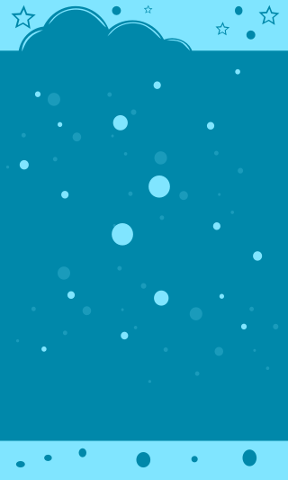
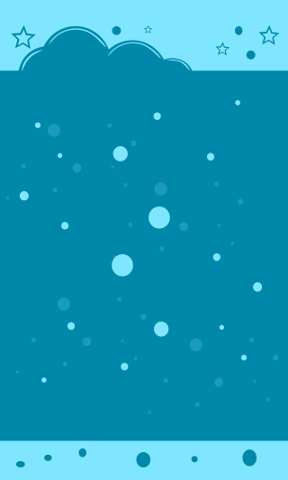
Add bubbles under items(#56)

diff --git a/core/src/mmorihiro/larger_circle/view/PuzzleView.kt b/core/src/mmorihiro/larger_circle/view/PuzzleView.kt
@@ -4,7 +4,6 @@ import com.badlogic.gdx.graphics.Color
 import com.badlogic.gdx.graphics.Texture
 import com.badlogic.gdx.scenes.scene2d.Group
 import com.badlogic.gdx.scenes.scene2d.ui.Image
-import ktx.actors.alpha
 import ktx.assets.asset
 import mmorihiro.larger_circle.model.Point
 
@@ -12,65 +11,49 @@ class PuzzleView(val onTouchDown: (PuzzleView, Int, Int) -> Unit,
                  val onTouchDragged: (PuzzleView, Int, Int) -> Unit,
                  val onTouchUp: (PuzzleView) -> Unit) : View() {
     val tileSize = 48f
-    val bottom = 40
+    val bottom = 53
     val rowSize = 6
     val colSize = 8
     val padding = 8
     val backGround = Image(asset<Texture>("background.png"))
-    val loader = ItemLoader(32, "items.png")
-    var items = (0..colSize - 1).map { index -> createRow(index) }
+    val itemLoader = ImageLoader(32, "items.png")
+    var bubbles = (0..colSize - 1).map { index -> createRow(index) }
+    var items = bubbles.map {
+        it.map {
+            itemLoader.loadRandom().apply {
+                x = it.x + padding
+                y = it.y + padding
+            }
+        }
+    }
     var itemLayer = Group()
     var connectEvent: ConnectEvent? = null
 
-    private fun createRow(yIndex: Int): List<Item> {
+    private fun createRow(yIndex: Int): List<MyImage> {
         val size = if (yIndex % 2 == 0) rowSize - 2 else rowSize - 1
         return (0..size).map { xIndex ->
-            loader.loadRandom().apply {
-                x = xIndex * tileSize + padding +
+            MyImage(Image(asset<Texture>("bubble.png")), 0 to 0).apply {
+                x = xIndex * tileSize +
                         if (yIndex % 2 == 0) tileSize / 2 else 0f
-                y = yIndex * tileSize + padding + bottom
+                y = yIndex * tileSize + bottom - 7 * yIndex
+                color = if (yIndex < 4) Color.GREEN else Color.GOLD
             }
         }
     }
 
     fun coordinateToPoint(x: Int, y: Int): Point {
-        val yPoint = (y - bottom) / tileSize.toInt()
+        val yPoint = ((y - bottom) / (tileSize - 7)).let {
+            if (it > 0) it.toInt() else -1
+        }
         val xPoint =
                 (if (yPoint % 2 == 0) x - tileSize.toInt() / 2 else x) /
                         tileSize.toInt()
         return xPoint to yPoint
     }
 
-    fun getItemFromPoint(point: Point) = items[point.second][point.first]
-
     fun resetBubbles() {
-        items.forEach {
-            it.forEach {
-                it.color = Color.WHITE
-                it.alpha = 1.0f
-            }
-        }
+        items.forEach { it.forEach { it.color = Color.WHITE } }
     }
-
-    /*fun nextRow(): List<Item> =
-            createRow(items.lastIndex).also { row ->
-                items = items.drop(1) + listOf(row)
-            }
-
-     fun removeBubble(bubble: Item) {
-         items = items.map { row -> row - bubble }
-     }
- 
-     fun createLabel(number: Int) =
-             Label(" x $number", Scene2DSkin.defaultSkin).apply {
-                 centerPosition(288f, 192f)
-                 x += 10f
-             }
- 
-     fun createBubble(type: Pair<Int, Int>) = loader.load(type).apply {
-         centerPosition(288f, 192f)
-         x -= 25f
-     }*/
 
     override fun touchUp(screenX: Int, screenY: Int,
                          pointer: Int, button: Int): Boolean {

diff --git a/core/src/mmorihiro/larger_circle/controller/TouchAction.kt b/core/src/mmorihiro/larger_circle/controller/TouchAction.kt
@@ -4,14 +4,13 @@ import com.badlogic.gdx.graphics.Color
 import mmorihiro.larger_circle.model.Point
 import mmorihiro.larger_circle.model.PuzzleModel
 import mmorihiro.larger_circle.view.ConnectEvent
-import mmorihiro.larger_circle.view.Item
+import mmorihiro.larger_circle.view.MyImage
 import mmorihiro.larger_circle.view.PuzzleView
 
 fun touchAction(view: PuzzleView, x: Int, y: Int) = view.run {
     val touchedPoint = coordinateToPoint(x, y)
-
     val touchedItem = try {
-        getItemFromPoint(touchedPoint)
+        items[touchedPoint.second][touchedPoint.first]
     } catch (e: IndexOutOfBoundsException) {
         return
     }
@@ -32,8 +31,8 @@ fun touchAction(view: PuzzleView, x: Int, y: Int) = view.run {
     touchEffect(touchedItem)
 }
 
-private fun touchEffect(item: Item) {
-    item.color = Color(0.5f, 0.5f, 0.5f, 0.7f)
+private fun touchEffect(image: MyImage) {
+    image.color = Color(0.5f, 0.5f, 0.5f, 0.7f)
 }
 
 fun onTouchUp(view: PuzzleView,
@@ -43,9 +42,9 @@ fun onTouchUp(view: PuzzleView,
         val size = connectedBubbles.size
         if (size == 1) view.resetBubbles()
         else {
-            connectedBubbles.forEach { view.getItemFromPoint(it).remove() }
-            onHit(view, view.getItemFromPoint(
-                    connectedBubbles.first()).type, size)
+            connectedBubbles.forEach { view.items[it.second][it.first].remove() }
+            val point = connectedBubbles.first()
+            onHit(view, view.items[point.second][point.first].type, size)
         }
     }
 }
@@ -53,16 +52,17 @@ fun onTouchUp(view: PuzzleView,
 fun onTouchDragged(view: PuzzleView, x: Int, y: Int): Unit = view.run {
     connectEvent?.let {
         val point = coordinateToPoint(x, y)
-        val item = try { 
-          getItemFromPoint(point)
-        } catch (e : java.lang.IndexOutOfBoundsException) { 
+        val item = try {
+            items[point.second][point.first]
+        } catch (e: IndexOutOfBoundsException) { 
             return 
         }
       
         // やり直す時
         if (it.connectedBubbles.size >= 2 && point ==
                 it.connectedBubbles[it.connectedBubbles.lastIndex - 1]) {
-            getItemFromPoint(it.connectedBubbles.last()).color = Color.WHITE
+            val point1 = it.connectedBubbles.last()
+            items[point1.second][point1.first].color = Color.WHITE
             connectEvent =
                     it.copy(connectedBubbles = it.connectedBubbles.dropLast(1))
         }
@@ -75,7 +75,7 @@ fun onTouchDragged(view: PuzzleView, x: Int, y: Int): Unit = view.run {
 }
 
 private fun canConnect(event: ConnectEvent, point: Point,
-                       item: Item, x: Int, y: Int): Boolean =
+                       item: MyImage, x: Int, y: Int): Boolean =
         event.sameTypeGroup.contains(point)
                 && !event.connectedBubbles.contains(point)
                 // 接しているかどうか

diff --git a/core/src/mmorihiro/larger_circle/view/ImageLoader.kt b/core/src/mmorihiro/larger_circle/view/ImageLoader.kt
@@ -3,20 +3,21 @@ package mmorihiro.larger_circle.view
 import com.badlogic.gdx.graphics.Texture
 import com.badlogic.gdx.graphics.g2d.TextureRegion
 import com.badlogic.gdx.math.MathUtils
+import com.badlogic.gdx.scenes.scene2d.ui.Image
 import ktx.assets.asset
 
 
-class ItemLoader(val size: Int, filePath: String) {
+class ImageLoader(val size: Int, filePath: String) {
     val sheet = asset<Texture>(filePath)
     val tiles: Array<Array<TextureRegion>> =
             TextureRegion.split(sheet, size, size)
 
-    fun load(position: Pair<Int, Int>): Item {
+    fun load(position: Pair<Int, Int>): MyImage {
         val (x, y) = position
-        return Item(tiles[x][y], x to y)
+        return MyImage(Image(tiles[x][y]), x to y)
     }
 
-    fun loadRandom(): Item {
+    fun loadRandom(): MyImage {
         val row = sheet.width / size
         val col = sheet.height / size
         return load(MathUtils.random(col - 1) to MathUtils.random(row - 1))

diff --git a/core/src/mmorihiro/larger_circle/controller/PuzzleController.kt b/core/src/mmorihiro/larger_circle/controller/PuzzleController.kt
@@ -14,6 +14,7 @@ class PuzzleController : Controller {
             { view -> onTouchUp(view, { _, _, _ -> addNewItems() }) }).apply {
         this + backGround
         this + itemLayer
+        bubbles.forEach { it.forEach { itemLayer + it } }
         items.forEach { it.forEach { itemLayer + it } }
     }
 
@@ -22,7 +23,7 @@ class PuzzleController : Controller {
             row.map { existingItem ->
                 if (existingItem.color != Color.WHITE) {
                     existingItem.clear()
-                    loader.loadRandom().apply {
+                    itemLoader.loadRandom().apply {
                         x = existingItem.x
                         y = existingItem.y
                         alpha = 0f
@@ -32,5 +33,6 @@ class PuzzleController : Controller {
                 } else existingItem
             }
         }
+        resetBubbles()
     }
 }

diff --git a/core/src/mmorihiro/larger_circle/controller/MainListener.kt b/core/src/mmorihiro/larger_circle/controller/MainListener.kt
@@ -34,6 +34,7 @@ class MainListener : ApplicationAdapter() {
         Assets.manager = AssetManager()
         load<Texture>("background.png")
         load<Texture>("items.png")
+        load<Texture>("bubble.png")
         load<Texture>("pointer.png")
         load<Texture>("star.png")
         load<Texture>("starBar.png")
@@ -57,6 +58,7 @@ class MainListener : ApplicationAdapter() {
     override fun dispose() {
         unload("background.png")
         unload("items.png")
+        unload("bubble.png")
         unload("pointer.png")
         unload("star.png")
         unload("starBar.png")

diff --git a/core/src/mmorihiro/larger_circle/view/MyImage.kt b/core/src/mmorihiro/larger_circle/view/MyImage.kt
@@ -1,0 +1,6 @@
+package mmorihiro.larger_circle.view
+
+import com.badlogic.gdx.scenes.scene2d.ui.Image
+
+
+class MyImage(image: Image, val type: Pair<Int, Int>) : Image(image.drawable)

diff --git a/references.md b/references.md
@@ -17,6 +17,5 @@
 ## Freepik
 - http://fr.freepik.com/vecteurs-libre/conception-de-fond-texture_919043.htm#term=textures&page=1&position=13
 - http://www.freepik.com/free-vector/colored-buttons-pack_849231.htm#term=button circle&page=1&position=3
-- http://www.freepik.com/free-vector/large-collection-of-white-clouds_988595.htm
 ## Pixabay
 - https://pixabay.com/ja/%E3%83%90%E3%83%96%E3%83%AB-%E5%86%86-%E7%90%83-%E9%9D%92-%E5%BD%A2%E7%8A%B6-%E3%82%B7%E3%83%B3%E3%83%9C%E3%83%AB-%E3%82%A2%E3%82%A4%E3%82%B3%E3%83%B3%E3%82%92-%E3%83%A9%E3%82%A6%E3%83%B3%E3%83%89-576578/
